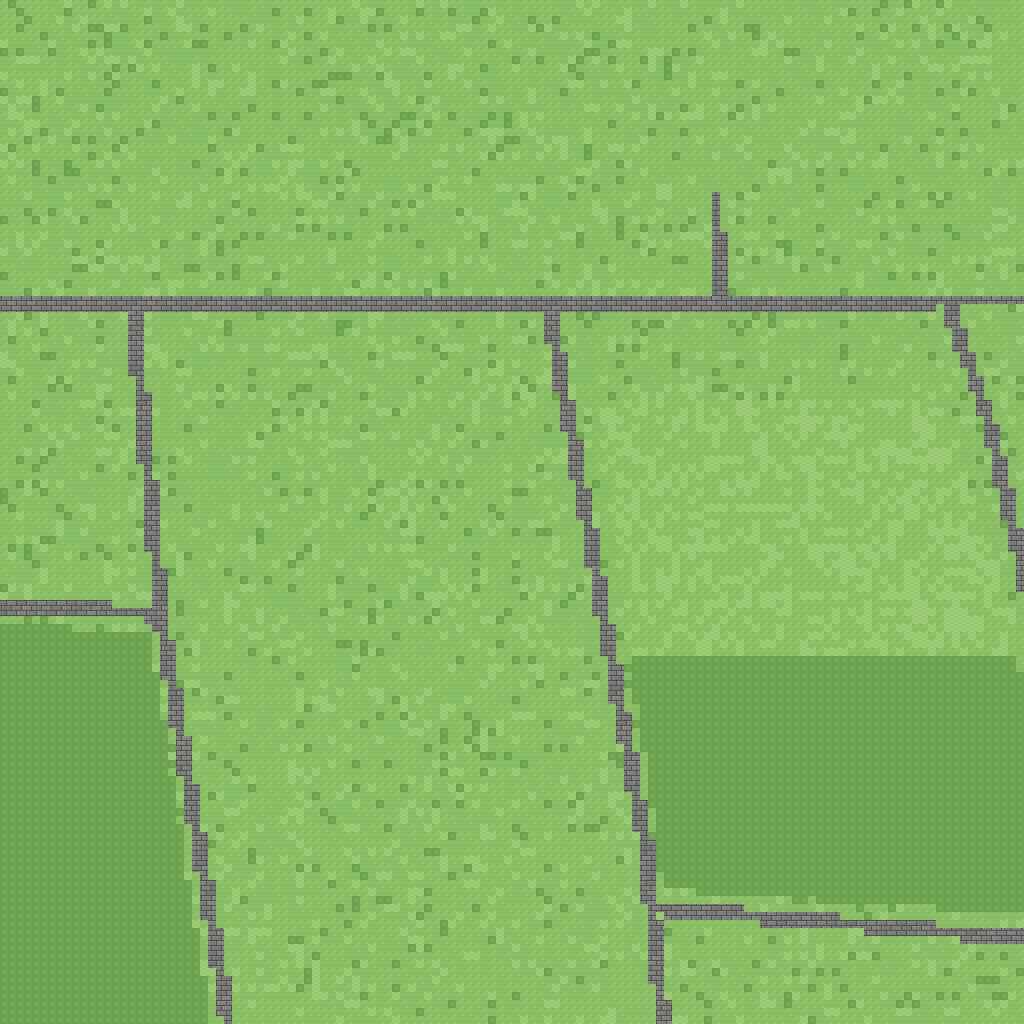
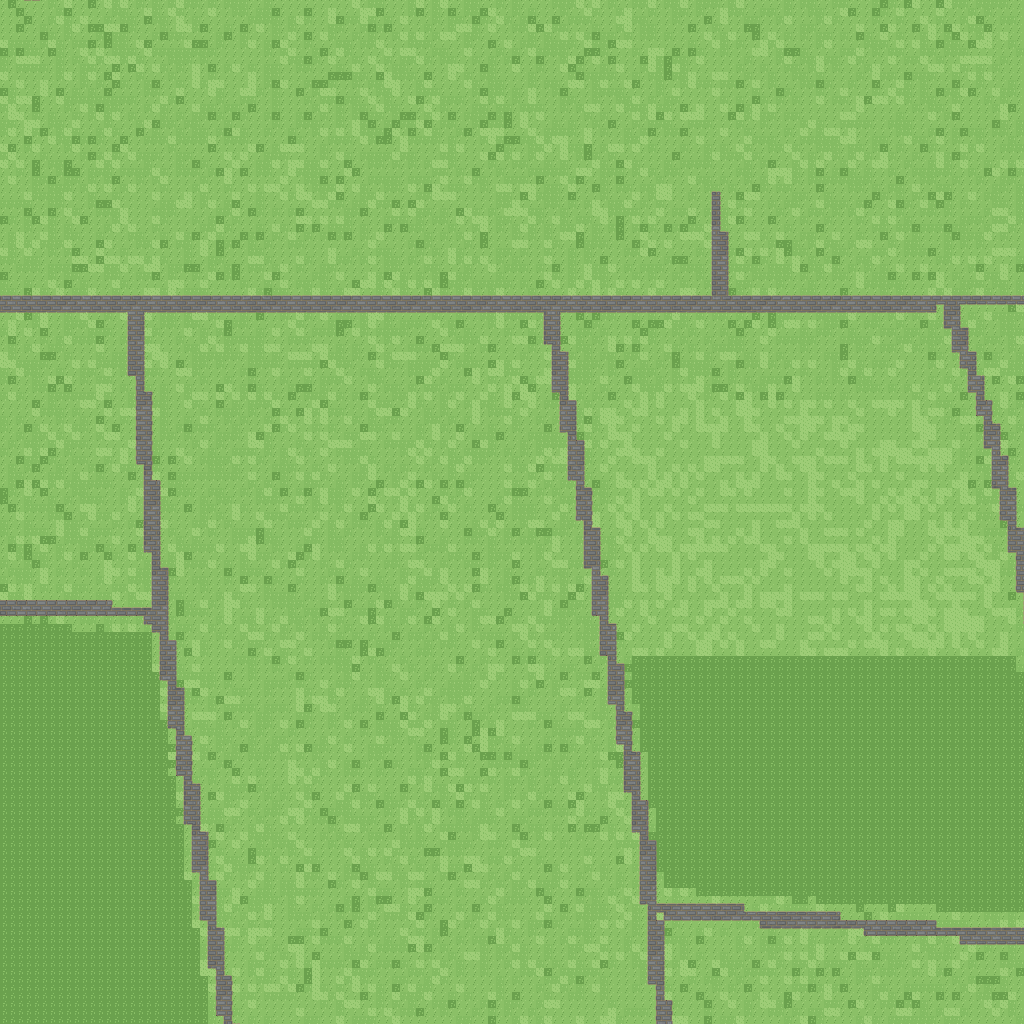
feat(world): 路面加路肩/接缝/碎石颗粒，纵向轮廓立起来
原来路面是烘死在 ground 图里的平涂灰，和草地硬切，远看像在草坪上刷了块漆。

新增 tools/bake_road_edge.py，只动边缘不改路的位置：
  草地 | 1px 土色路肩 | 1px 压暗接缝 | 路面(2x2 碎石颗粒) | 受光侧 1px 倒角
背光侧(下/右)外侧再压一道接触影。颗粒用 effect_noise 缩半再 NEAREST 放大，
和草地的抖动同一套像素语言，不是细腻噪点。

两个坑：
1. 必须留源图 assets/_ground_src/(.gdignore)。对 ground/ 反复跑会越描越黑，
   所以源图要入库；_ground_src 目录和 ground_bak(自动备份) 不是一回事
2. 写回必须按源图各自尺寸：世界 3392x6400 不是 1024 的整数倍，最后一列 g3_*
   只有 320 宽、最后一行 g*_6 只有 256 高。第一版统一 resize 成 1024 等于把
   东门那一列横向压扁 3 倍

停车场贴图同步补了外圈深接缝 + 内侧亮路缘 + 2px 颗粒，不然同为地面铺装
停车场会比旁边的路「薄」一截。

Changed region(s): [[0.0, 0.1875, 1.0, 1.0]]

diff --git a/tools/bake_road_edge.py b/tools/bake_road_edge.py
@@ -1,0 +1,187 @@
+#!/usr/bin/env python3
+# -*- coding: utf-8 -*-
+"""给路面烘一层「路缘石 + 倒角」，让它从贴纸变成有厚度的铺装。
+
+背景：路面是烘死在 assets/ground/g{cx}_{cy}.png 里的平涂灰色（8px/格），
+和草地之间是硬切的 —— 远看就像在草坪上刷了块灰漆。这里不动路的位置，
+只在**路面内侧**加一圈 1~2px 的边：
+
+    最外 1px   ：压暗（路缘石背光的那一道竖面）
+    向内 1px    ：提亮（路缘石顶面，受光）
+    再向内      ：原样（铺装本身，砖缝纹理还在）
+    草地一侧 1px：轻微压暗（落地接触影，让路面「压」在草上）
+
+方向性：上/左边缘更亮、下/右边缘更暗，形成「凸起的边」而不是「描边」。
+
+幂等：第一次跑会把当前地面图拷进 assets/_ground_src/（带 .gdignore，Godot 不导入），
+以后每次都从源图重算 —— 反复跑不会越描越黑。改参数直接重跑即可。
+
+用法：
+    python tools/bake_road_edge.py            # 烘焙写回 assets/ground/
+    python tools/bake_road_edge.py --preview  # 只出一张对比图 road_edge_preview.png
+然后（改了 assets/ground/ 之后必须）：
+    godot --headless --path . --import
+"""
+import os
+import shutil
+import sys
+
+from PIL import Image, ImageChops, ImageEnhance, ImageFilter
+
+HERE = os.path.dirname(os.path.abspath(__file__))
+ROOT = os.path.dirname(HERE)
+SRC = os.path.join(ROOT, "assets", "_ground_src")
+OUT = os.path.join(ROOT, "assets", "ground")
+
+CHUNK = 1024
+COLS, ROWS = 4, 7
+WORLD_W, WORLD_H = 3392, 6400          # 424×8, 800×8
+
+# ---- 强度（亮度倍率，1.0 = 不变）----
+SHOULDER = 0.72        # 路肩：草地被踩出来的土，向 DIRT 混色的比例
+DIRT = (163, 150, 118)  # 土色
+SHADOW = 0.90          # 紧贴路缘的接触影（只打在背光侧 下/右）
+INNER_RIM = 0.82       # 路面最外 1px 压暗 = 与地面的接缝
+LIP = 1.10             # 受光侧（上/左）内侧倒角
+DOT_LIGHT = 1.05       # 路面碎石高光点
+DOT_DARK = 0.95        # 路面碎石暗点
+
+# 路面判定：中性灰（石材铺装 / 沥青）。注意水是灰绿色、沙是土黄，都不会命中。
+ROAD_MIN, ROAD_MAX, ROAD_SPREAD = 92, 182, 12
+
+SRC_FILES = ["g%d_%d.png" % (cx, cy) for cy in range(ROWS) for cx in range(COLS)]
+
+
+def ensure_src():
+    """把当前地面图存成源图（只做一次）。"""
+    os.makedirs(SRC, exist_ok=True)
+    missing = [f for f in SRC_FILES if not os.path.exists(os.path.join(SRC, f))]
+    if len(missing) == len(SRC_FILES):
+        for f in SRC_FILES:
+            p = os.path.join(OUT, f)
+            if os.path.exists(p):
+                shutil.copy2(p, os.path.join(SRC, f))
+        print("[road_edge] 首次运行：已把当前地面图备份到 assets/_ground_src/")
+    elif missing:
+        raise SystemExit("[road_edge] 源图不全（%d 个缺失），先删掉 assets/_ground_src/ 重跑"
+                         % len(missing))
+
+
+def load_mosaic():
+    canvas = Image.new("RGB", (COLS * CHUNK, ROWS * CHUNK), (0, 0, 0))
+    for cy in range(ROWS):
+        for cx in range(COLS):
+            p = os.path.join(SRC, "g%d_%d.png" % (cx, cy))
+            canvas.paste(Image.open(p).convert("RGB"), (cx * CHUNK, cy * CHUNK))
+    return canvas.crop((0, 0, WORLD_W, WORLD_H))
+
+
+def road_mask(im):
+    """中性灰 = 路面。返回 L 掩码（255 = 路）。"""
+    r, g, b = im.split()
+    mx = ImageChops.lighter(ImageChops.lighter(r, g), b)
+    mn = ImageChops.darker(ImageChops.darker(r, g), b)
+    spread = ImageChops.subtract(mx, mn)
+    flat = spread.point(lambda v: 255 if v <= ROAD_SPREAD else 0)
+    lum = r.point(lambda v: 255 if ROAD_MIN <= v <= ROAD_MAX else 0)
+    return ImageChops.multiply(flat, lum)
+
+
+def shift(m, dx, dy):
+    return ImageChops.offset(m, dx, dy)
+
+
+def erode(m, n=1):
+    for _ in range(n):
+        m = m.filter(ImageFilter.MinFilter(3))
+    return m
+
+
+def dilate(m, n=1):
+    for _ in range(n):
+        m = m.filter(ImageFilter.MaxFilter(3))
+    return m
+
+
+def and_not(a, b):
+    return ImageChops.subtract(a, b)
+
+
+def paint(base, factor, mask):
+    """把 mask 覆盖的区域按 factor 调亮度（1.0 = 不变）。"""
+    if factor == 1.0:
+        return base
+    adj = ImageEnhance.Brightness(base).enhance(factor)
+    return Image.composite(adj, base, mask)
+
+
+def build(im):
+    W, H = im.size
+    R = road_mask(im)
+    inner1 = erode(R, 1)
+    inner2 = erode(R, 2)
+
+    ring0 = and_not(R, inner1)          # 路面最外 1px
+    ring1 = and_not(inner1, inner2)     # 向内第 2px
+
+    out = im
+
+    # ① 路肩：路面外侧 1px 的草地混成土色（草坪被踩秃的过渡带）
+    shoulder = ImageChops.lighter(and_not(shift(R, 0, 1), R), and_not(shift(R, 0, -1), R))
+    shoulder = ImageChops.lighter(shoulder, and_not(shift(R, 1, 0), R))
+    shoulder = ImageChops.lighter(shoulder, and_not(shift(R, -1, 0), R))
+    dirt = Image.new("RGB", (W, H), DIRT)
+    out = Image.composite(Image.blend(out, dirt, SHOULDER), out, shoulder)
+
+    # ② 接触影：只打在背光侧（下/右），1px 压深
+    shadow = ImageChops.lighter(and_not(shift(R, 0, 1), R), and_not(shift(R, 1, 0), R))
+    out = paint(out, SHADOW, shadow)
+
+    # ③ 内圈：接缝压暗 + 受光侧倒角
+    out = paint(out, INNER_RIM, ring0)
+    lip = and_not(ring1, shift(R, 0, 1))                     # 上邻是草地
+    lip = ImageChops.lighter(lip, and_not(ring1, shift(R, 1, 0)))
+    out = paint(out, LIP, lip)
+
+    # ④ 路面碎石纹理：现在是纯色平涂，放大看是一块死灰
+    dot_n = Image.effect_noise((W // 2, H // 2), 26).resize((W, H), Image.NEAREST)
+    lit = ImageChops.multiply(R, dot_n.point(lambda v: 255 if v > 172 else 0))
+    drk = ImageChops.multiply(R, dot_n.point(lambda v: 255 if v < 84 else 0))
+    out = paint(out, DOT_LIGHT, lit)
+    out = paint(out, DOT_DARK, drk)
+    return out
+
+
+def save(mosaic):
+    """按**源图各自的尺寸**写回（最后一列是 320 宽、最后一行是 256 高）。
+    统一成 1024 会让引擎按 1024 去摆，整块地面歪掉。"""
+    for cy in range(ROWS):
+        for cx in range(COLS):
+            name = "g%d_%d.png" % (cx, cy)
+            sw, sh = Image.open(os.path.join(SRC, name)).size
+            x0, y0 = cx * CHUNK, cy * CHUNK
+            part = mosaic.crop((x0, y0, x0 + sw, y0 + sh))
+            part.save(os.path.join(OUT, name))
+
+
+def main():
+    preview = "--preview" in sys.argv
+    ensure_src()
+    im = load_mosaic()
+    out = build(im)
+    if preview:
+        box = (1400, 1300, 1900, 1800)
+        a = im.crop(box).resize((1000, 1000), Image.NEAREST)
+        b = out.crop(box).resize((1000, 1000), Image.NEAREST)
+        cmp = Image.new("RGB", (2010, 1000), (20, 20, 20))
+        cmp.paste(a, (0, 0))
+        cmp.paste(b, (1010, 0))
+        cmp.save(os.path.join(ROOT, "road_edge_preview.png"))
+        print("[road_edge] 对比图 -> road_edge_preview.png（左=原, 右=新）")
+        return
+    save(out)
+    print("[road_edge] 已写回 assets/ground/（记得 godot --headless --path . --import）")
+
+
+if __name__ == "__main__":
+    main()

diff --git a/tools/gen_parking_cars.py b/tools/gen_parking_cars.py
@@ -10,6 +10,7 @@
 生成后：godot --headless --import
 """
 import os
+import random
 
 from PIL import Image, ImageDraw
 
@@ -79,7 +80,12 @@ def car_art(body, dark, light):
 
 
 def lot_art(row_stalls=8, aisle=26):
-    """停车场地面：两排车位 + 中间车道。回车位图，尺寸随车位数量变。"""
+    """停车场地面：两排车位 + 中间车道。回车位图，尺寸随车位数量变。
+
+    边缘处理要和烘焙进地面图的路面（tools/bake_road_edge.py）保持一致：
+    最外 1px 深接缝 → 向内 1px 亮路缘石 → 沥青底 + 碎石颗粒。
+    少了这层，停车场在画面里就比旁边的路「薄」一截，像贴上去的。
+    """
     stall_w, stall_d = 15, 19
     pad = 4
     w = row_stalls * stall_w + pad * 2
@@ -87,16 +93,22 @@ def lot_art(row_stalls=8, aisle=26):
     im = Image.new("RGBA", (w, h), (0, 0, 0, 0))
     d = ImageDraw.Draw(im)
     asphalt = (100, 106, 112, 255)
-    asphalt_d = (92, 98, 104, 255)
+    seam = (70, 76, 82, 255)
+    curb = (150, 154, 158, 255)
     line = (228, 232, 236, 255)
-    curb = (168, 172, 176, 255)
-    # 沥青底 + 一条细噪点，避免死平
+
+    # 沥青底
     d.rectangle([0, 0, w - 1, h - 1], fill=asphalt)
-    for i in range(0, w, 7):
-        d.point([(i, (i * 5) % h), ((i * 3) % w, (i * 11) % h)], fill=asphalt_d)
-    # 路缘
-    d.rectangle([0, 0, w - 1, 0], fill=curb)
-    d.rectangle([0, h - 1, w - 1, h - 1], fill=curb)
+    # 碎石颗粒：2px 见方的稀疏点，跟地面上的路面同一套观感
+    rnd = random.Random(424242)
+    for _ in range((w * h) // 62):
+        gx = rnd.randrange(1, w - 2)
+        gy = rnd.randrange(1, h - 2)
+        v = rnd.choice((94, 98, 104, 110, 114))
+        d.rectangle([gx, gy, gx + 1, gy + 1], fill=(v - 2, v + 2, v + 6, 255))
+    # 外圈深接缝 + 内侧亮路缘
+    d.rectangle([0, 0, w - 1, h - 1], outline=seam)
+    d.rectangle([1, 1, w - 2, h - 2], outline=curb)
     # 两排车位线
     for r in (0, 1):
         y0 = pad + r * (stall_d + aisle)

diff --git a/README.md b/README.md
@@ -123,6 +123,33 @@ xattr -cr 像素工大.app && codesign --force --deep --sign - 像素工大.app
 > 校园层缩放一调大，草地/道路的像素块就跟着变粗，而楼不会因此多出细节。
 > 想再往"真实"走，得把地面和楼体贴图按 2 倍分辨率重烘一遍（现在没有生成器，只有备份）。
 
+**路面加了路肩、接缝和颗粒，不再是一块贴在地上的灰漆。**
+
+原来路面是烘死的平涂灰，和草地之间硬切 —— 远看像在草坪上刷了块漆。`tools/bake_road_edge.py`
+不动路的位置，只在边缘加一圈：
+
+```
+草地 │ 1px 土色路肩 │ 1px 压暗接缝 │ 路面（碎石颗粒） │ 受光侧 1px 倒角
+```
+
+- 路肩是把外侧 1px 草地按 72% 混土色（163,150,118），做「被踩秃的过渡带」
+- 接缝只压最外 1px 路面到 0.82，形成「路陷进地里」的暗边
+- 颗粒用 `Image.effect_noise` 缩一半再 NEAREST 放大 → 2×2 的方块状沙粒，
+  跟草地的抖动质感同一套语言，不是细腻噪点
+- 背光侧（下/右）外侧再压一道 0.90 的接触影
+
+两个坑：
+
+1. **必须留源图**。第一次跑会把当前地面图拷进 `assets/_ground_src/`（带 `.gdignore`），
+   之后每次从源图重算。直接对 `assets/ground/` 反复跑会越描越黑 —— 所以 `_ground_src/`
+   **要入库**（和 `ground_bak/` 不同，那个是自动备份、不用管）
+2. **写回要按源图各自的尺寸**。世界 3392×6400 不是 1024 的整数倍：最后一列区块
+   `g3_*` 只有 320 宽、最后一行 `g*_6` 只有 256 高。第一版统一 resize 成 1024，
+   等于把东门那一整列地面横向压扁 3 倍（画面直接歪），改成按源图尺寸裁切
+
+停车场贴图（`tools/gen_parking_cars.py` 的 `lot_art`）也补了同一套「外圈深接缝 + 内侧亮路缘
++ 2px 碎石颗粒」，否则同样是地面铺装，停车场会比旁边的路「薄」一截。
+
 **校园里开始有"生活痕迹"了：9 个停车场 / 114 辆车 / 24 个分类垃圾桶 / 9 块 P 牌**。
 
 对照卫星照片看，之前的校园最大的问题是"没有人味"——楼、树、路都有，就是一件人造杂物都没有。
